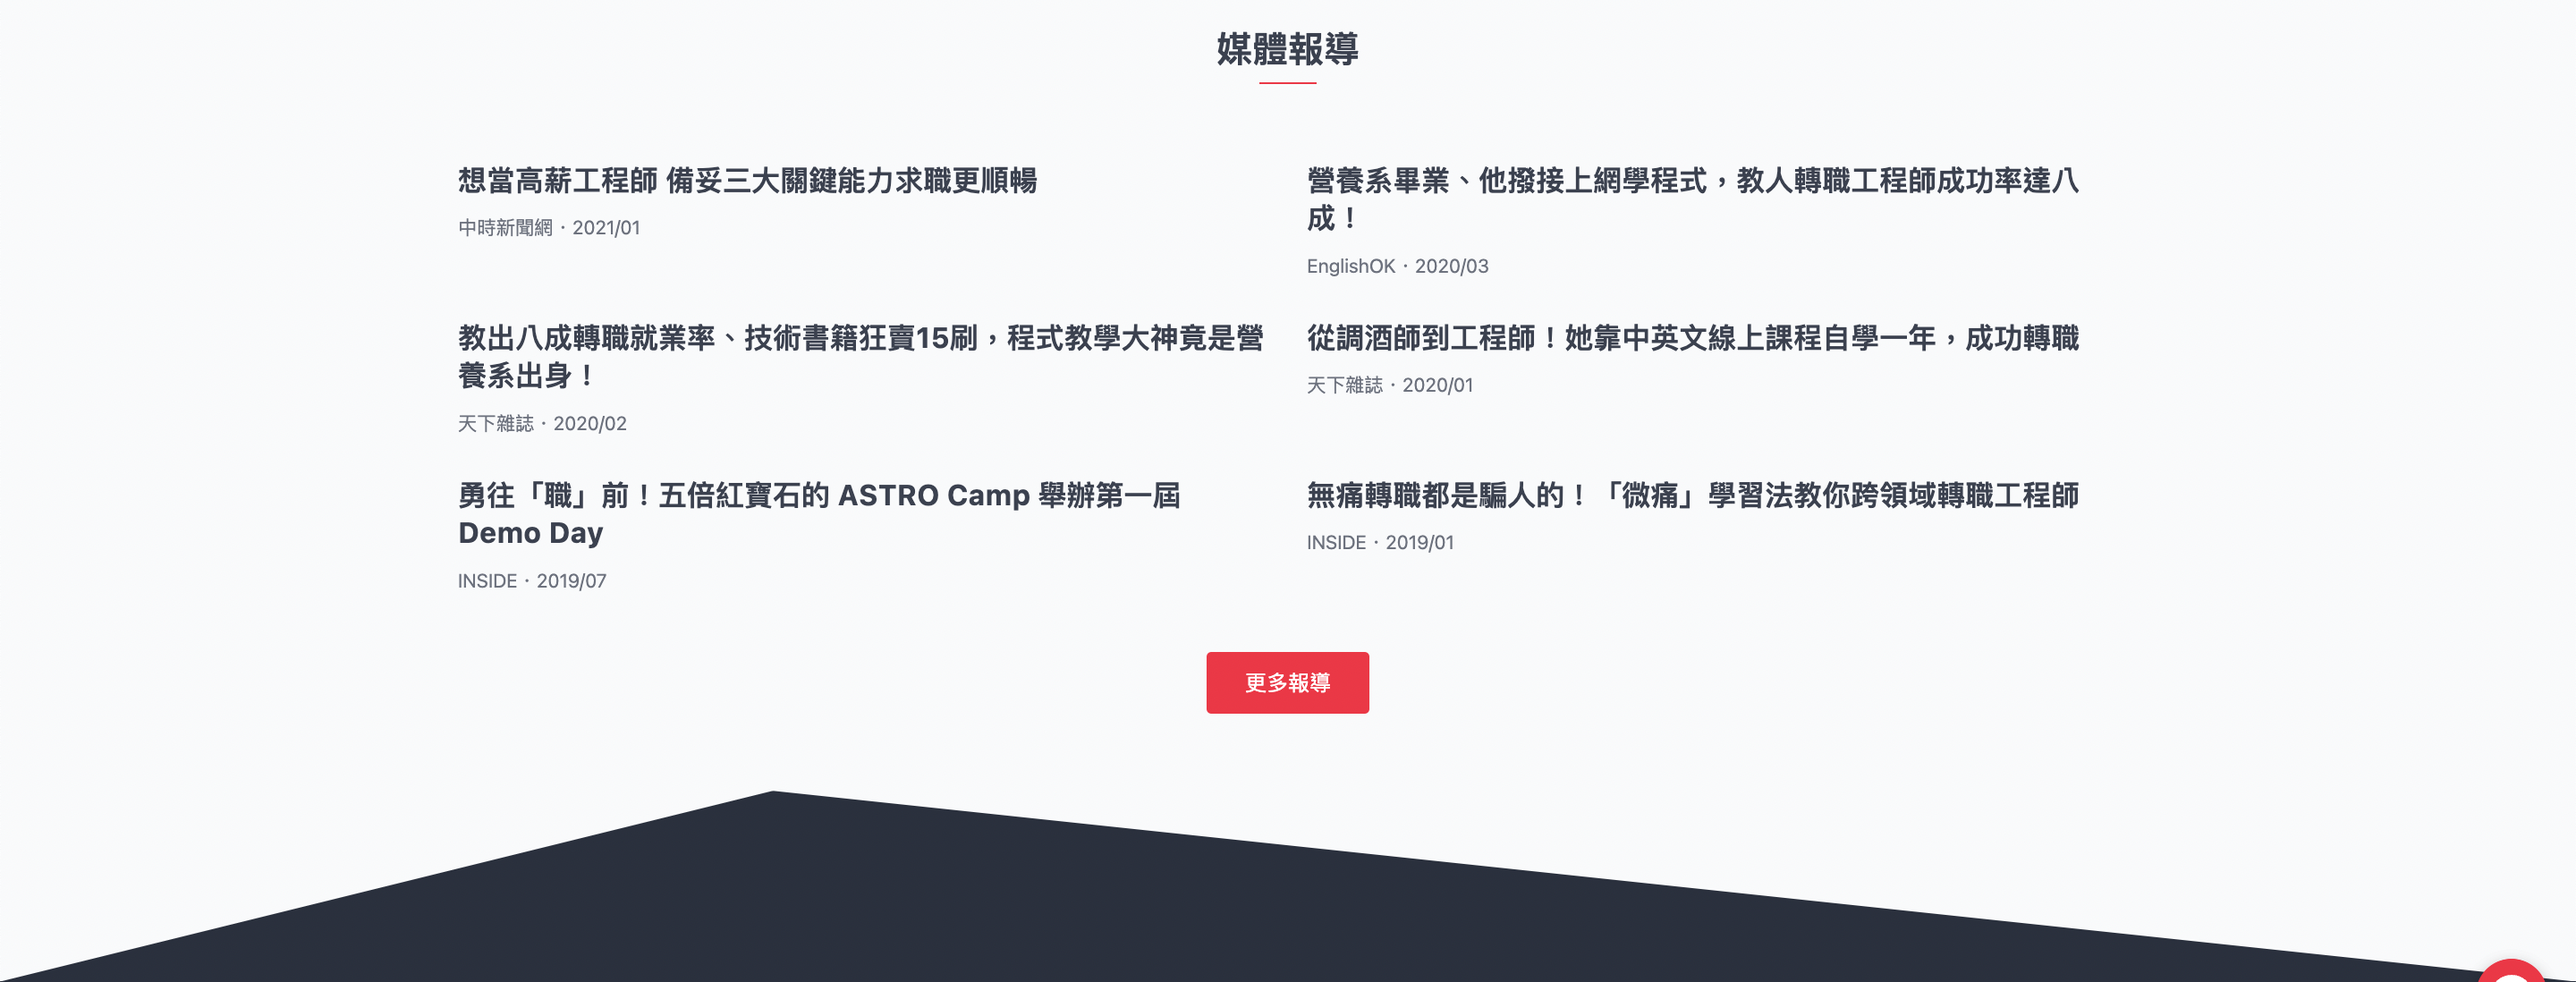
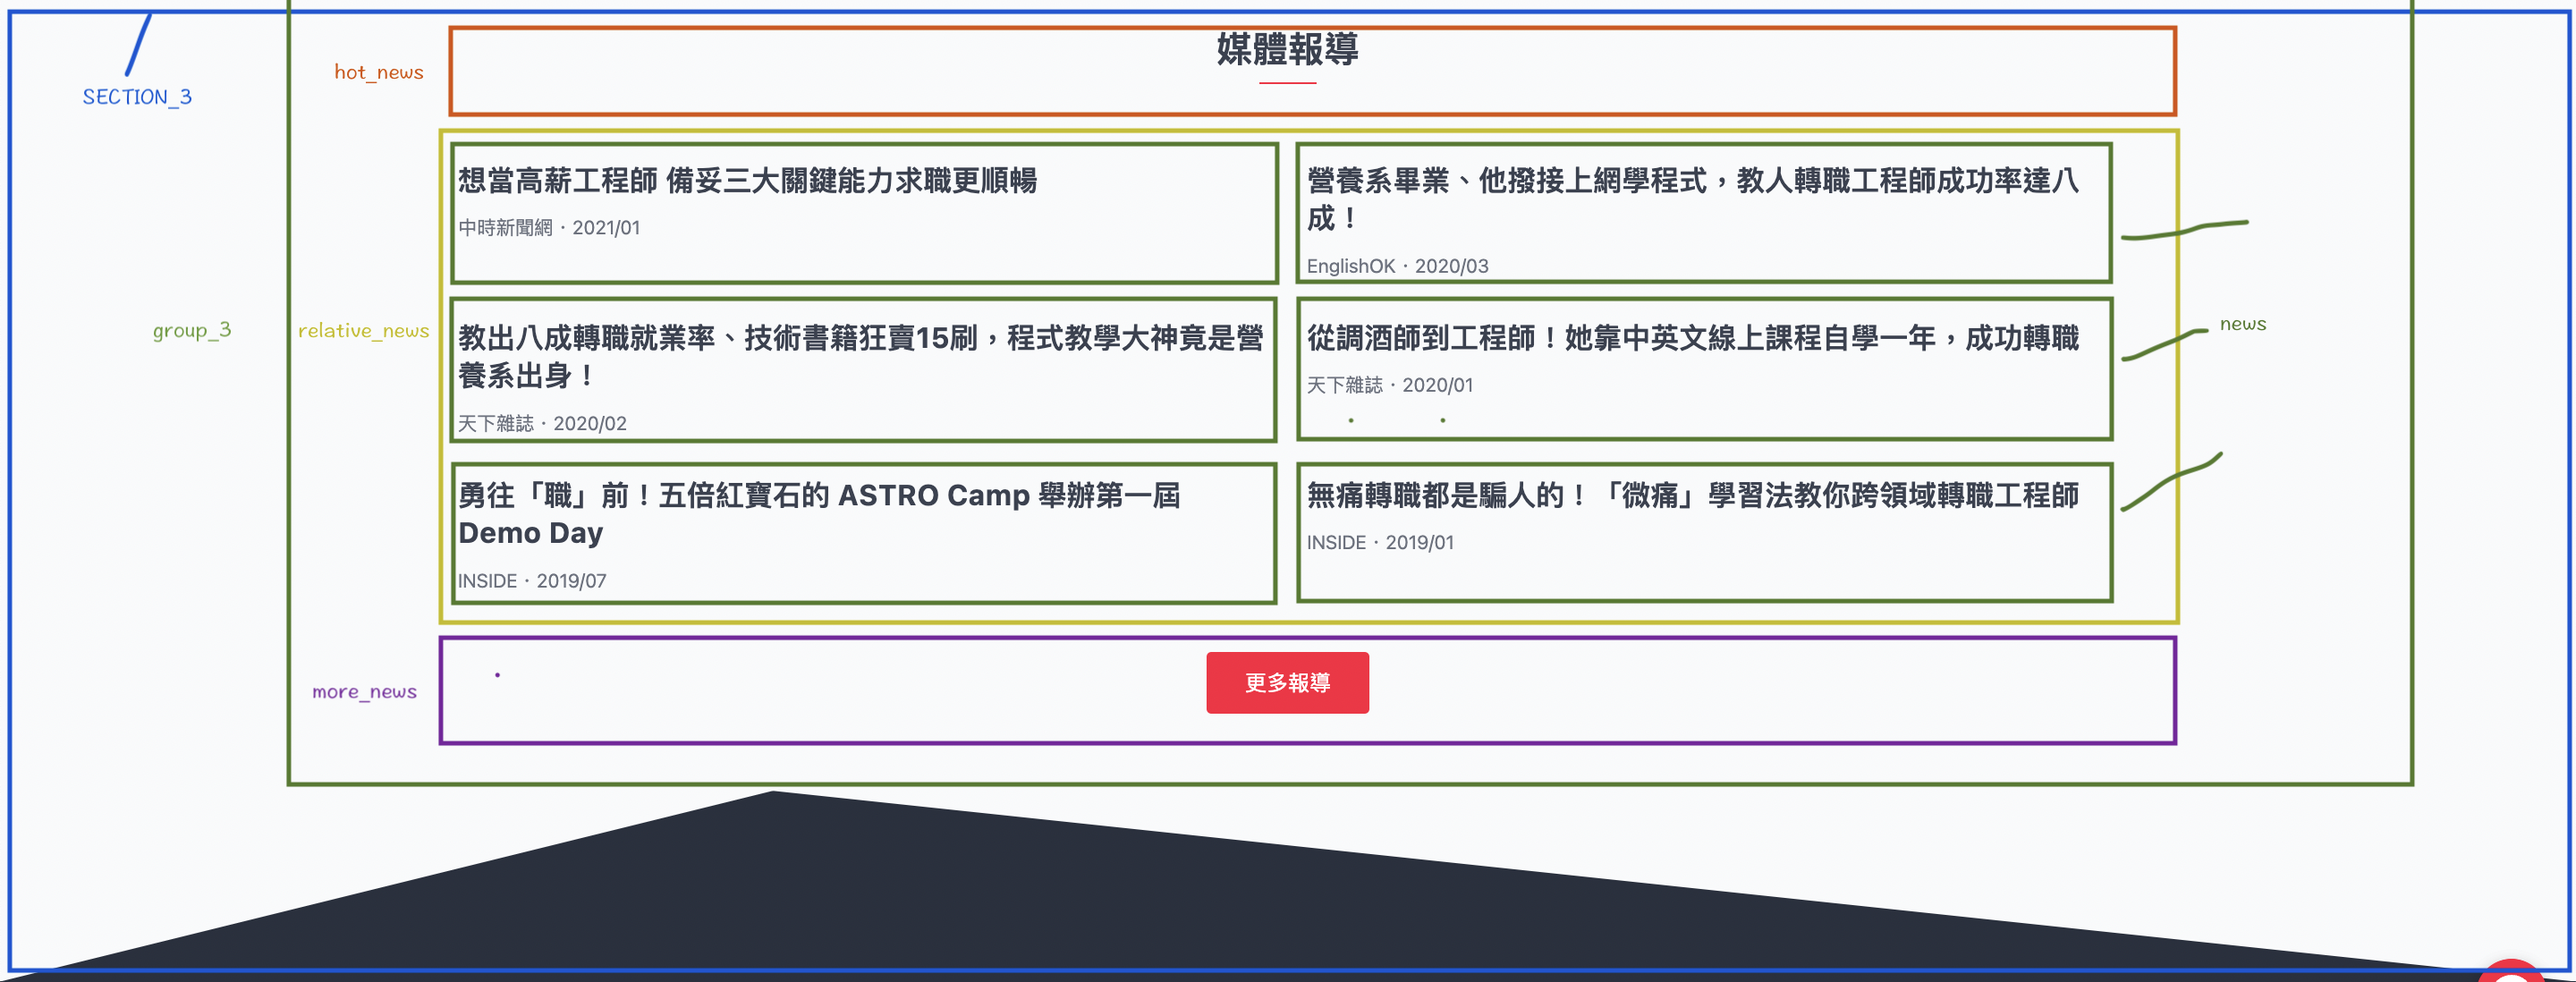
section_3 scaffold

diff --git a/Homework_5xRuby_web/5xRuby.html b/Homework_5xRuby_web/5xRuby.html
@@ -225,4 +225,39 @@
             </div>
         </div>
     </section>
+    <section class="section_3">
+        <div class="group_3">
+            <h1 class="hot_news">媒體報導</h1>
+            <div class="relative_news">
+                <div class="news">
+                    <h1 class="title"></h1>
+                    <span class="date"></span>
+                </div>
+                <div class="news">
+                    <h1 class="title"></h1>
+                    <span class="date"></span>
+                </div>
+                <div class="news">
+                    <h1 class="title"></h1>
+                    <span class="date"></span>
+                </div>
+                <div class="news">
+                    <h1 class="title"></h1>
+                    <span class="date"></span>
+                </div>
+                <div class="news">
+                    <h1 class="title"></h1>
+                    <span class="date"></span>
+                </div>
+                <div class="news">
+                    <h1 class="title"></h1>
+                    <span class="date"></span>
+                </div>
+            </div>
+            <div class="more_news">
+                <a href="">更多報導</a>
+            </div>
+            <img src="">
+        </div>
+    </section>
 </html>
